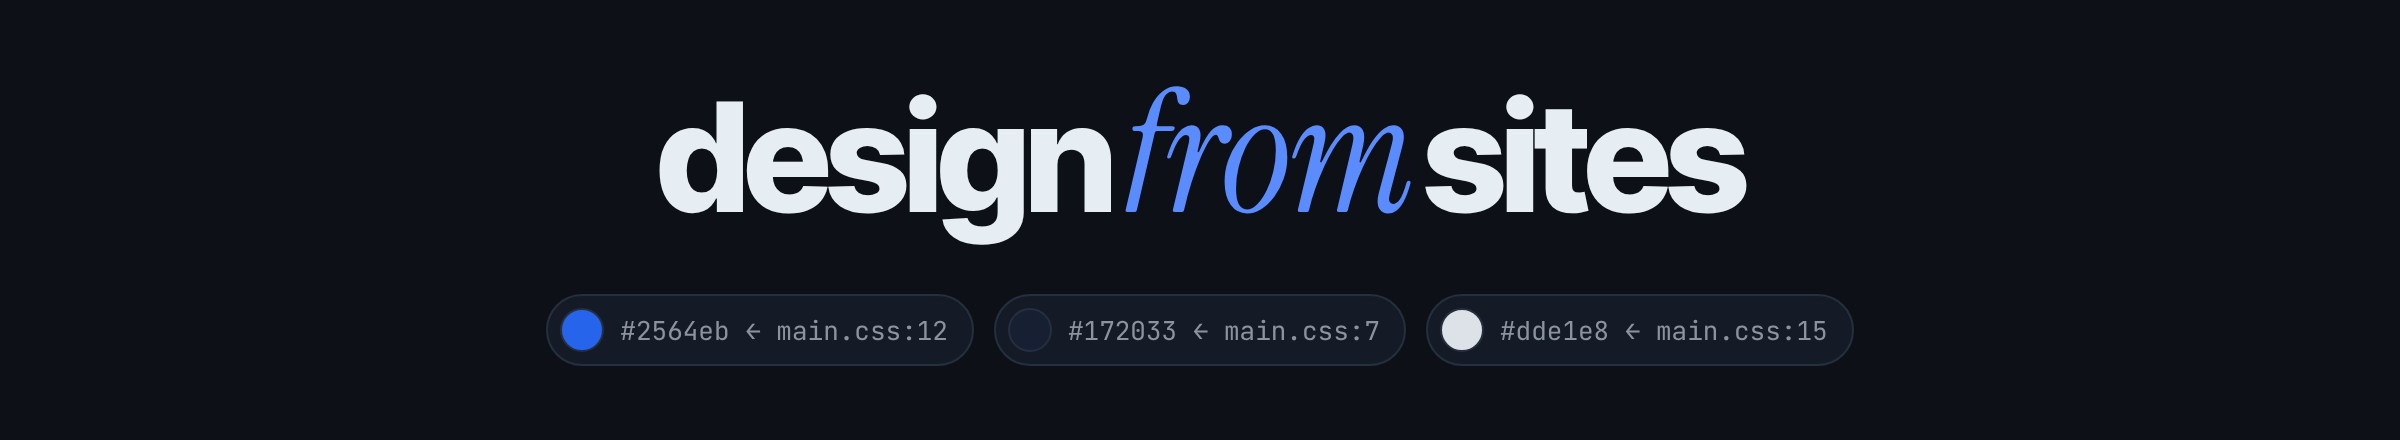
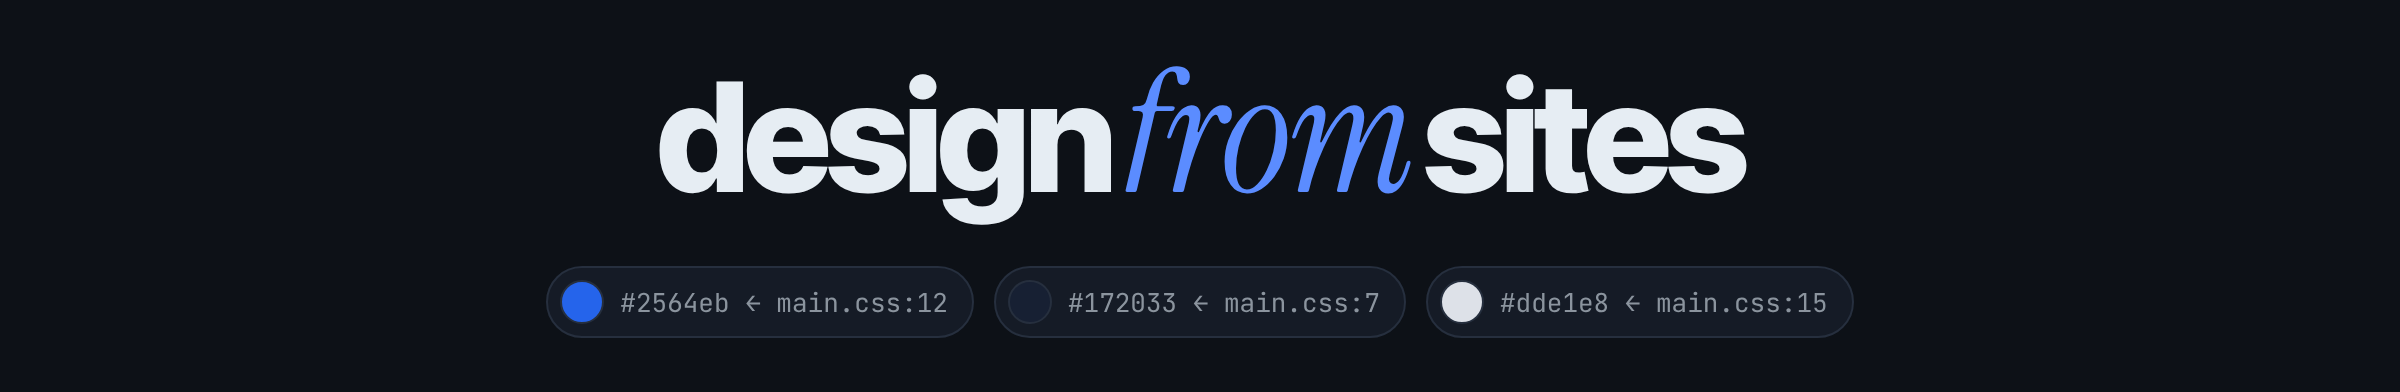
docs: tighten README header so the install command fits the first screen on GitHub

diff --git a/README.md b/README.md
@@ -1,7 +1,7 @@
 <p align="center">
   <picture>
     <source media="(prefers-color-scheme: dark)" srcset="docs/readme/banner-dark.png">
-    <img alt="design-from-sites" src="docs/readme/banner-light.png" width="640">
+    <img alt="design-from-sites" src="docs/readme/banner-light.png" width="520">
   </picture>
 </p>
 
@@ -12,9 +12,7 @@
   <img alt="Node ≥ 20" src="https://img.shields.io/badge/node-%E2%89%A520-339933?logo=node.js&logoColor=white">
   <img alt="Agent skill" src="https://img.shields.io/badge/agent-skill-6E56CF">
   <a href="LICENSE"><img alt="MIT" src="https://img.shields.io/badge/license-MIT-blue"></a>
-</p>
-
-<p align="center">
+  <br>
   <a href="#quick-start"><b>Quick start</b></a> ·
   <a href="#how-it-works">How it works</a> ·
   <a href="SKILL.md">SKILL.md</a> ·

diff --git a/README.zh-CN.md b/README.zh-CN.md
@@ -1,7 +1,7 @@
 <p align="center">
   <picture>
     <source media="(prefers-color-scheme: dark)" srcset="docs/readme/banner-dark.png">
-    <img alt="design-from-sites" src="docs/readme/banner-light.png" width="640">
+    <img alt="design-from-sites" src="docs/readme/banner-light.png" width="520">
   </picture>
 </p>
 
@@ -12,9 +12,7 @@
   <img alt="Node ≥ 20" src="https://img.shields.io/badge/node-%E2%89%A520-339933?logo=node.js&logoColor=white">
   <img alt="Agent skill" src="https://img.shields.io/badge/agent-skill-6E56CF">
   <a href="LICENSE"><img alt="MIT" src="https://img.shields.io/badge/license-MIT-blue"></a>
-</p>
-
-<p align="center">
+  <br>
   <a href="#快速开始"><b>快速开始</b></a> ·
   <a href="#怎么用">怎么用</a> ·
   <a href="SKILL.md">SKILL.md</a> ·
